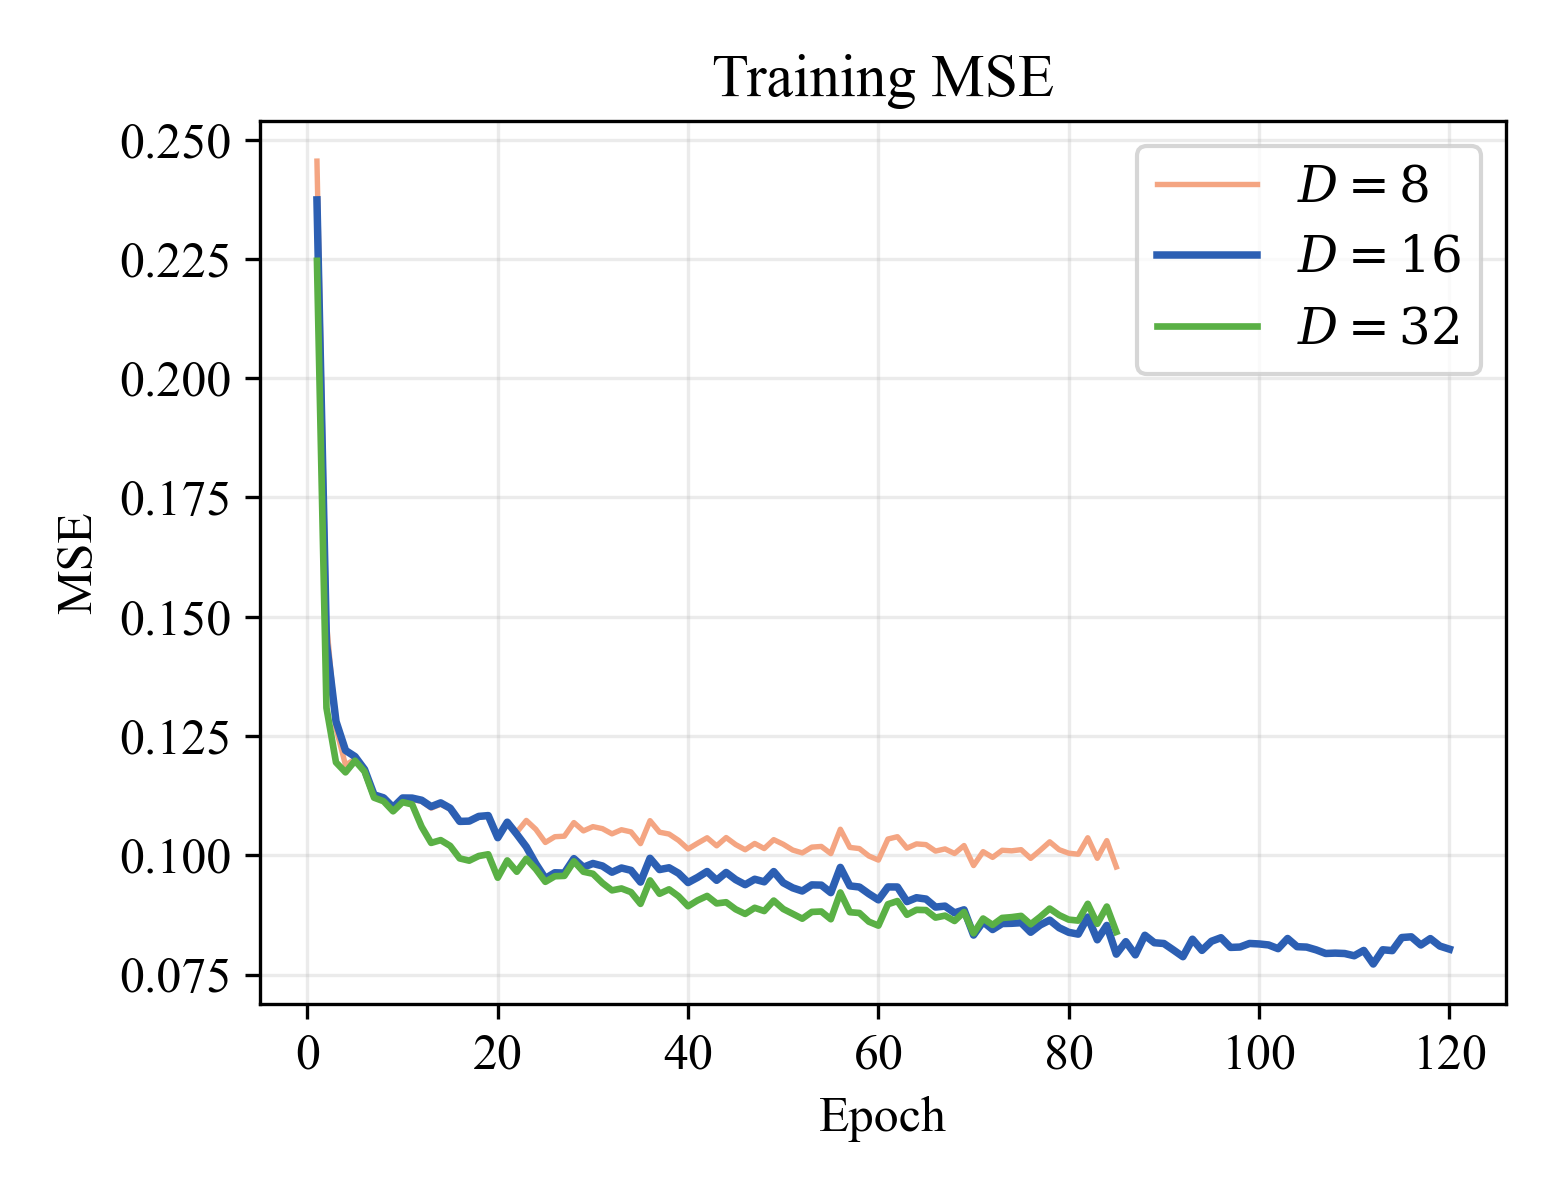
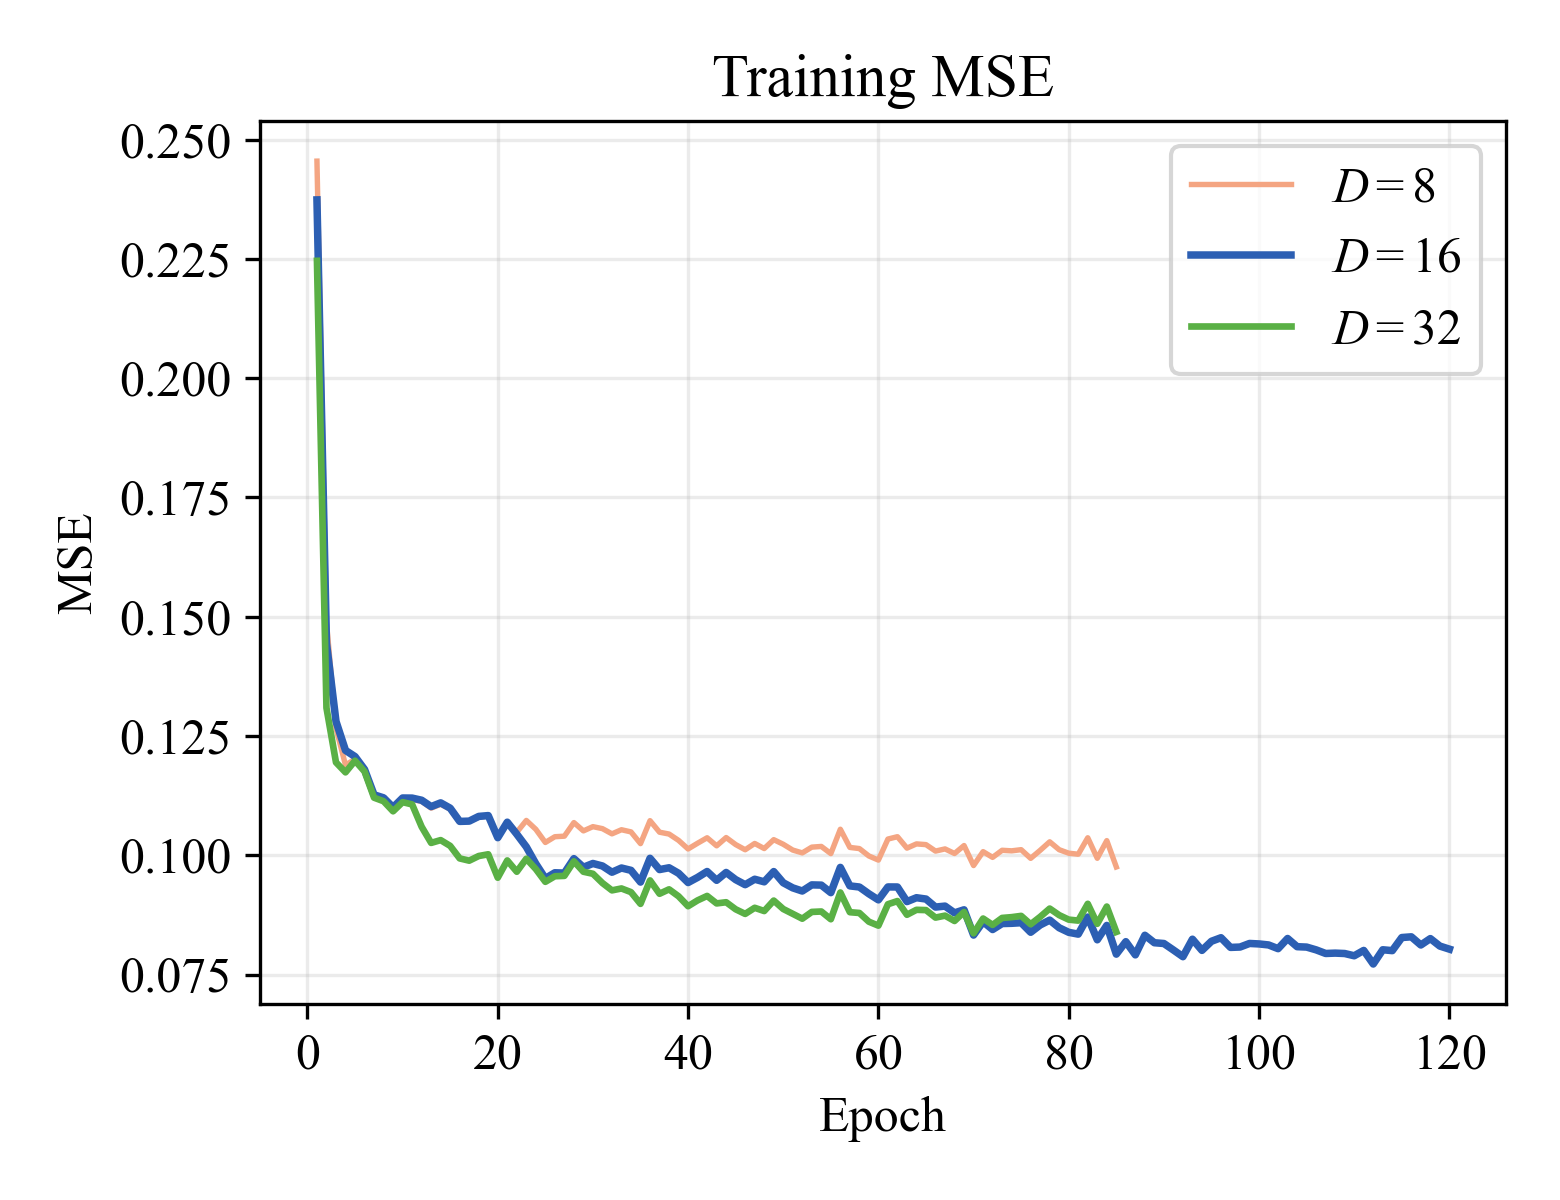
Use Times New Roman consistently in t-SNE and training-curve figures
Set rcParams before creating the t-SNE axes so axis labels use Times, and
render math-text legend labels (D = 8/16/32) in Times New Roman. Regenerate
the affected figures.

Changed region(s): [[0.8, 0.1233, 0.9538, 0.3083], [0.7385, 0.1233, 0.7692, 0.2158], [0.7385, 0.2467, 0.7692, 0.2775]]

diff --git a/tools/plot_train_curves.py b/tools/plot_train_curves.py
@@ -22,7 +22,8 @@ PANELS = [("train_mse", "Training MSE", "MSE"), ("val_mse", "Validation MSE", "M
 
 def main(root="runs/latentD", prefix="fig_latent_dim"):
     plt.rcParams.update({"font.family": "serif", "font.serif": ["Times New Roman", "DejaVu Serif"], "font.size": 12,
-                         "mathtext.fontset": "dejavuserif"})
+                         "mathtext.fontset": "custom", "mathtext.rm": "Times New Roman",
+                         "mathtext.it": "Times New Roman:italic", "mathtext.bf": "Times New Roman:bold"})
     H = {}
     for f in sorted(glob.glob(os.path.join(root, "D*", "train_history.csv"))):
         d = pd.read_csv(f); H[int(d.latent_dim.iloc[0])] = d

diff --git a/tools/plot_latent_clusters.py b/tools/plot_latent_clusters.py
@@ -95,8 +95,8 @@ def main(out="fig_latent_clusters.png", n_per=600):
         info = f"PCA explained variance {pj.explained_variance_ratio_.round(3).tolist()}"
     names = json.load(open("cluster_names.json"))
     rng = np.random.default_rng(42)
-    fig, ax = plt.subplots(figsize=(7.5, 5.6))
     plt.rcParams.update({"font.family": "serif", "font.serif": ["Times New Roman", "DejaVu Serif"]})
+    fig, ax = plt.subplots(figsize=(7.5, 5.6))
     order = sorted(share, key=lambda k: -share[k])
     dropped = {}
     for k in order:
